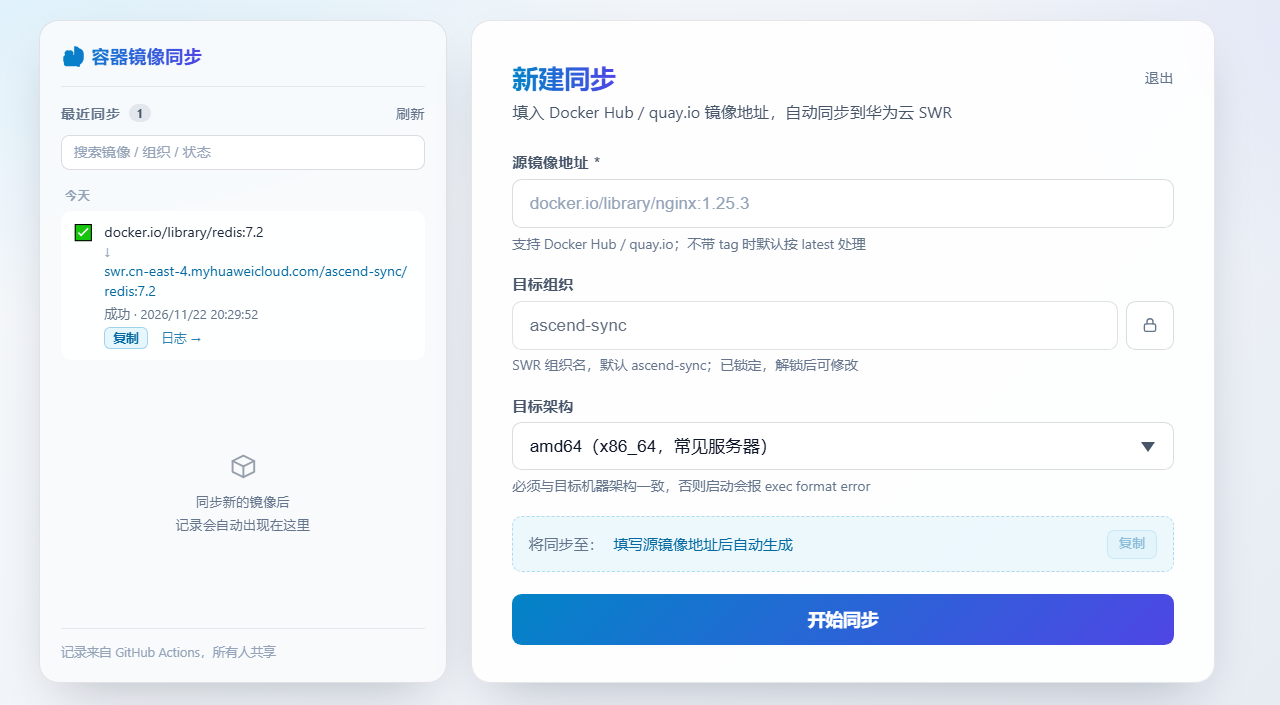
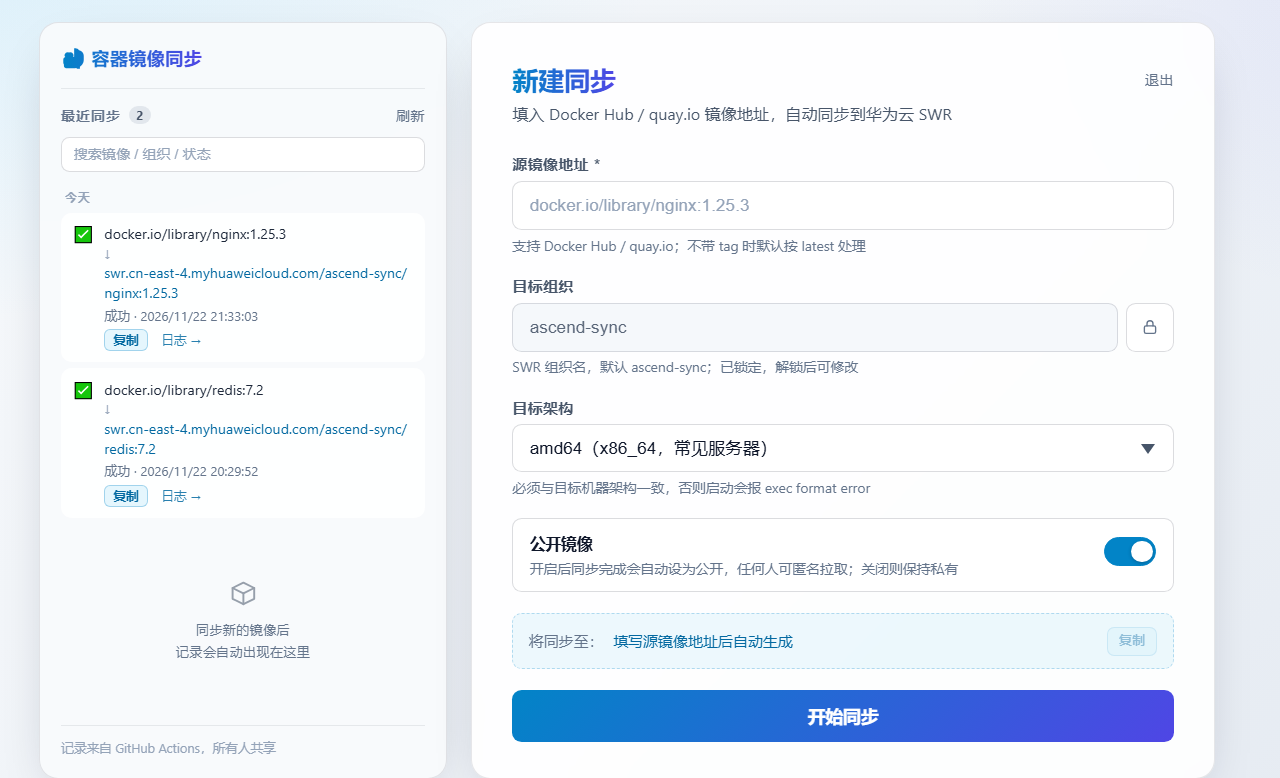
docs: refresh preview screenshot

diff --git a/README.md b/README.md
@@ -21,7 +21,8 @@
 
 ![界面预览（亮色主题）](docs/preview-light.png)
 
-> 暗色 / 跟随系统主题的布局一致，仅配色不同。左侧为全局同步历史（支持搜索、日期分组、复制），右侧为新建同步表单。
+> 左侧是全局同步历史（来自 GitHub Actions，支持搜索、日期分组、复制镜像名）；右侧是新建同步表单：目标组织默认锁定、可选择 CPU 架构、可开关「公开镜像」。
+> 暗色 / 跟随系统主题的布局一致，仅配色不同。
 
 ---
 
